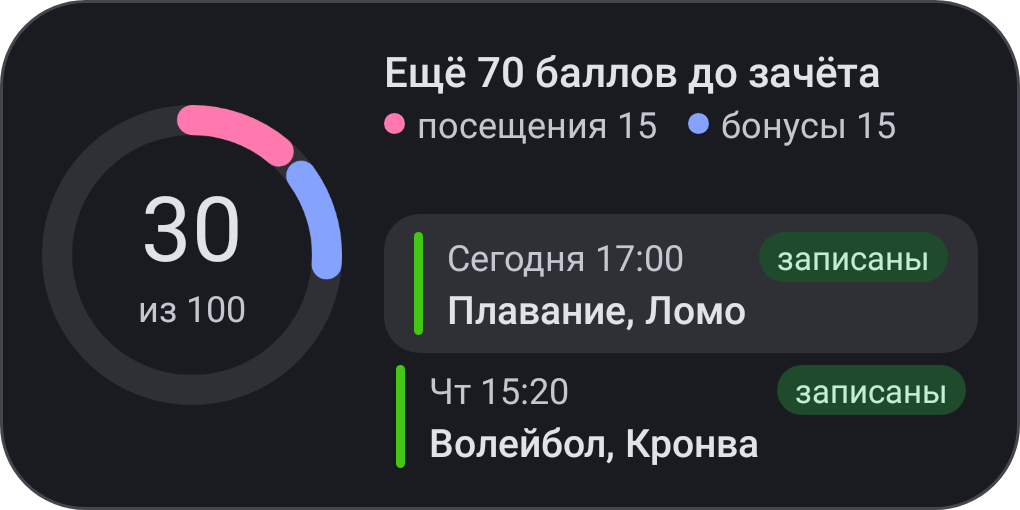
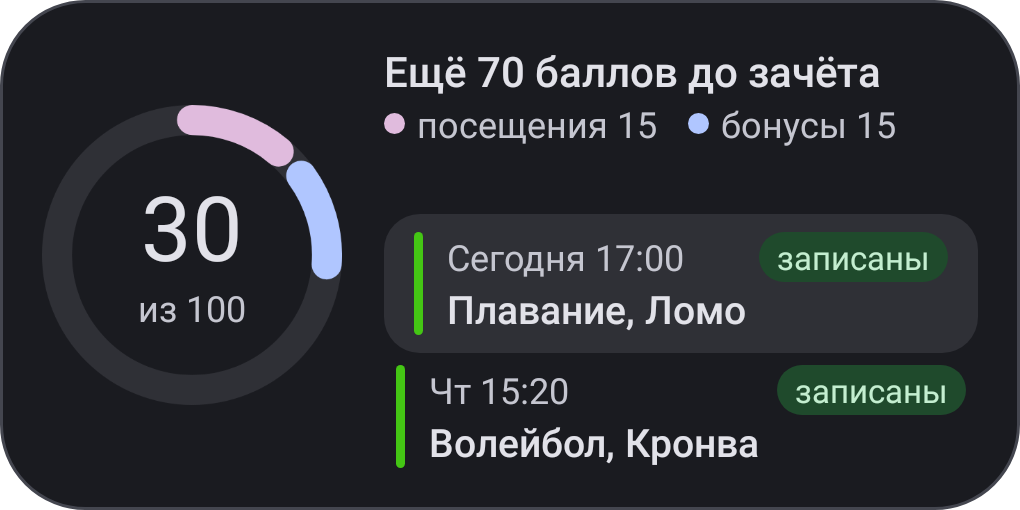
Preserve theme colors in sport widgets

Changed region(s): [[0.152, 0.2059, 0.3343, 0.5588], [0.6686, 0.2059, 0.699, 0.2647], [0.3647, 0.2059, 0.3951, 0.2647]]

diff --git a/iosApp/Extensions/Widgets/Sport/SportWidget.swift b/iosApp/Extensions/Widgets/Sport/SportWidget.swift
@@ -56,7 +56,7 @@ struct SportEntryView: View {
     }
 }
 
-/// The score ring of the sport tab at widget size: visits in red, bonuses in blue, the number
+/// The score ring of the sport tab at widget size: visits in the tertiary role, bonuses in the accent, the number
 /// and `widget_sport_of` inside; closed and green once the credit is reached.
 struct SportRing: View {
     let snapshot: SportWidgetSnapshot
@@ -79,7 +79,7 @@ struct SportRing: View {
                 } else if visits + bonus == 0 {
                     Circle().stroke(colors.block, lineWidth: line)
                 } else {
-                    let arcs = [(CGFloat(0), visitsShare, ItmoColor.sportScoreAttendance), (visitsShare, bonusShare, ItmoColor.sportScoreBonus)].filter { $0.1 > 0 }
+                    let arcs = [(CGFloat(0), visitsShare, colors.bonus), (visitsShare, bonusShare, colors.accent)].filter { $0.1 > 0 }
                     ForEach(arcs.indices, id: \.self) { index in
                         let (from, length, color) = arcs[index]
                         Circle()
@@ -170,8 +170,8 @@ private struct SportMedium: View {
             Text(verbatim: "\(String(localized: .widgetSportVisits(snapshot.visits))), \(String(localized: .widgetSportBonus(snapshot.bonus)))")
         } else {
             HStack(spacing: 8) {
-                dot(ItmoColor.sportScoreAttendance, .widgetSportVisits(snapshot.visits))
-                dot(ItmoColor.sportScoreBonus, .widgetSportBonus(snapshot.bonus))
+                dot(colors.bonus, .widgetSportVisits(snapshot.visits))
+                dot(colors.accent, .widgetSportBonus(snapshot.bonus))
             }
         }
     }

diff --git a/app/src/main/java/dev/alllexey/itmowidgets/feature/sport/ui/widget/SportWidgetRenderer.kt b/app/src/main/java/dev/alllexey/itmowidgets/feature/sport/ui/widget/SportWidgetRenderer.kt
@@ -93,8 +93,8 @@ object SportWidgetRenderer {
             views.setImageViewBitmap(R.id.ring_visits, ring(size, stroke, 0f, visits - gap(visits)))
             views.setImageViewBitmap(R.id.ring_bonus, ring(size, stroke, visits, bonus - gap(bonus)))
             views.setViewVisibility(R.id.ring_bonus, if (snapshot.bonus > 0) View.VISIBLE else View.GONE)
-            colors.tint(views, R.id.ring_visits, R.color.widget_sport_visits_color)
-            colors.tint(views, R.id.ring_bonus, R.color.widget_sport_bonus_color)
+            colors.tint(views, R.id.ring_visits, R.color.widget_tertiary)
+            colors.tint(views, R.id.ring_bonus, R.color.widget_primary)
         }
         views.setViewVisibility(R.id.ring_visits, if (snapshot.visits > 0 || snapshot.done) View.VISIBLE else View.GONE)
         colors.tint(views, R.id.ring_track, R.color.widget_surface_container_high)
@@ -122,8 +122,8 @@ object SportWidgetRenderer {
         val dots = if (snapshot.done) View.GONE else View.VISIBLE
         views.setViewVisibility(R.id.sport_visits_dot, dots)
         views.setViewVisibility(R.id.sport_bonus_dot, dots)
-        colors.tint(views, R.id.sport_visits_dot, R.color.widget_sport_visits_color)
-        colors.tint(views, R.id.sport_bonus_dot, R.color.widget_sport_bonus_color)
+        colors.tint(views, R.id.sport_visits_dot, R.color.widget_tertiary)
+        colors.tint(views, R.id.sport_bonus_dot, R.color.widget_primary)
         views.removeAllViews(R.id.sport_items)
         val items = snapshot.items ?: return
         if (items.isEmpty()) {

diff --git a/docs/features/widgets.md b/docs/features/widgets.md
@@ -96,7 +96,7 @@ least 24 pt; the countdown keeps its width first and shrinks with the line.
 
 ## Sport widget
 
-The score ring uses red for visits and blue for bonuses, as in My ITMO.
+The score ring uses the widget theme's tertiary colour for visits and primary colour for bonuses.
 
 - `SportWidgetDataProvider` fetches as `Моё` does: the score from My ITMO, the bookings with their queues (the queues
   only through the custom-services gate of `SportDataRepository`; demo data in a demo session). Signed out it
@@ -148,7 +148,7 @@ Settings: the `Пропуск` sheet of the gallery ([settings](../settings.md#q
 - On, the next-lesson, day, sport and QR widgets draw with the scheme `Оформление` gives (accent or `Свой цвет`,
   style, contrast; with `Как обои` at the default style and contrast the wallpaper's scheme on Android 12+, the brand
   scheme elsewhere), light or dark as the system is, whatever `Тема` says (the launcher draws them). Only colours
-  change: layouts, shapes and the lesson type colours, sport score colours and status tones (`очередь`, `записаны`) stay the widgets' own.
+  change: layouts, shapes and the lesson type colours and status tones (`очередь`, `записаны`) stay the widgets' own.
 - `Чёрный фон` does not reach the widgets: a widget is a card on the home screen, so it keeps the surface tone (a black
   tile would vanish on a dark wallpaper).
 - One resolver: `ThemeSpec.widgetPalette()` (`:shared:core`, `core/settings/ThemeSeeds.kt`, built without Compose from
